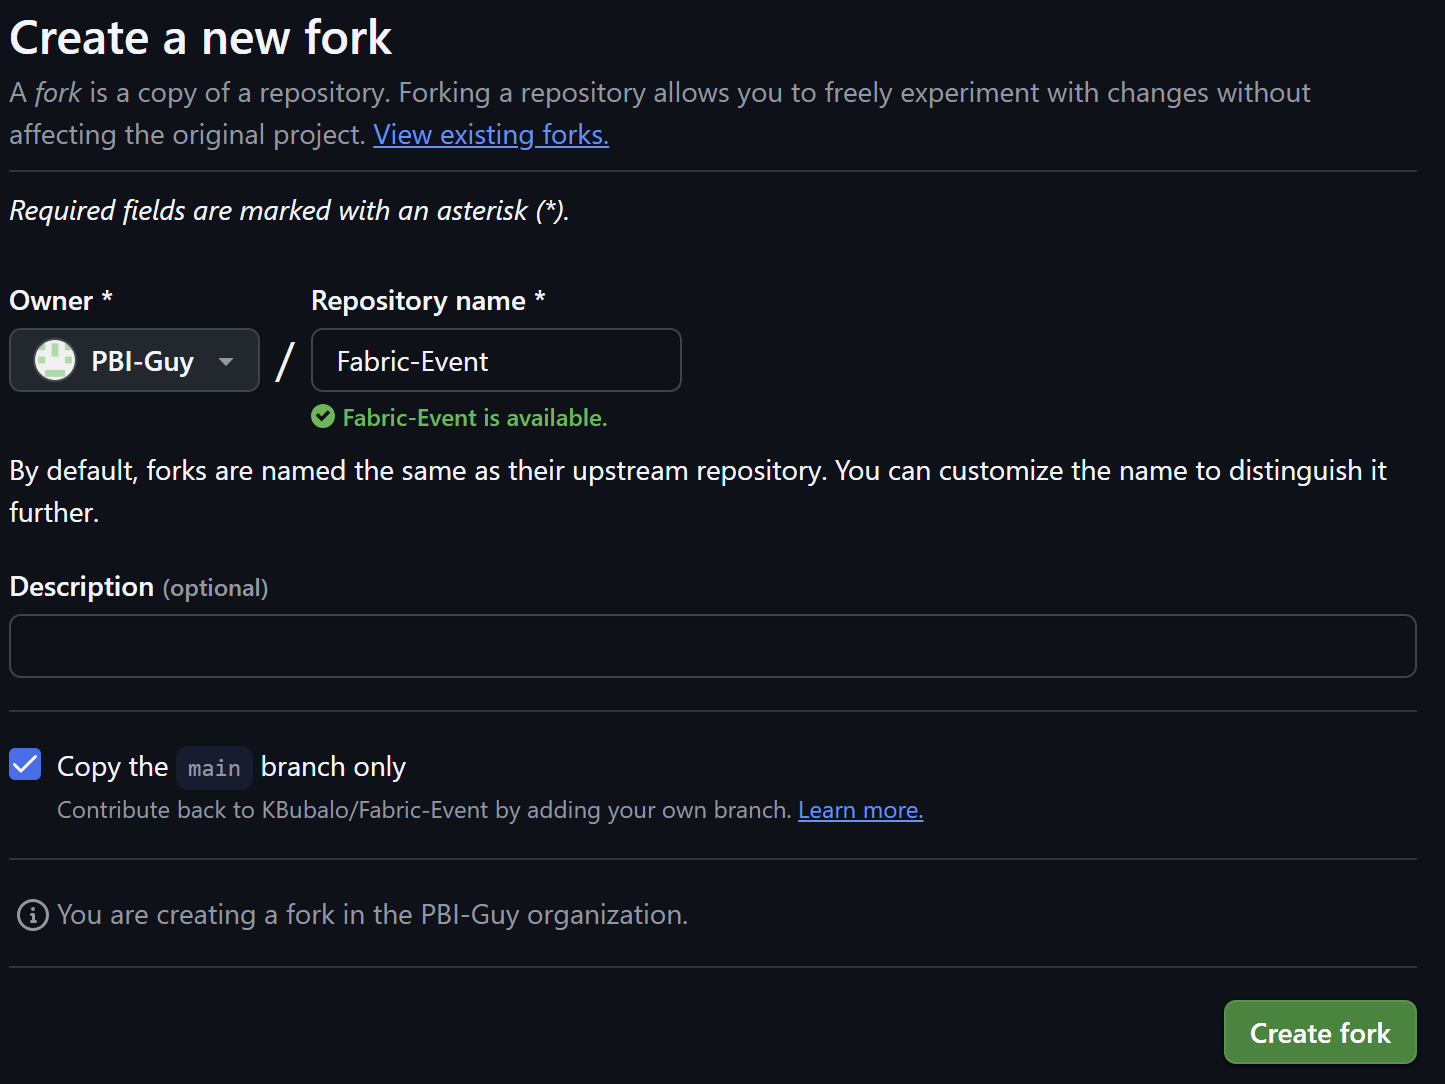
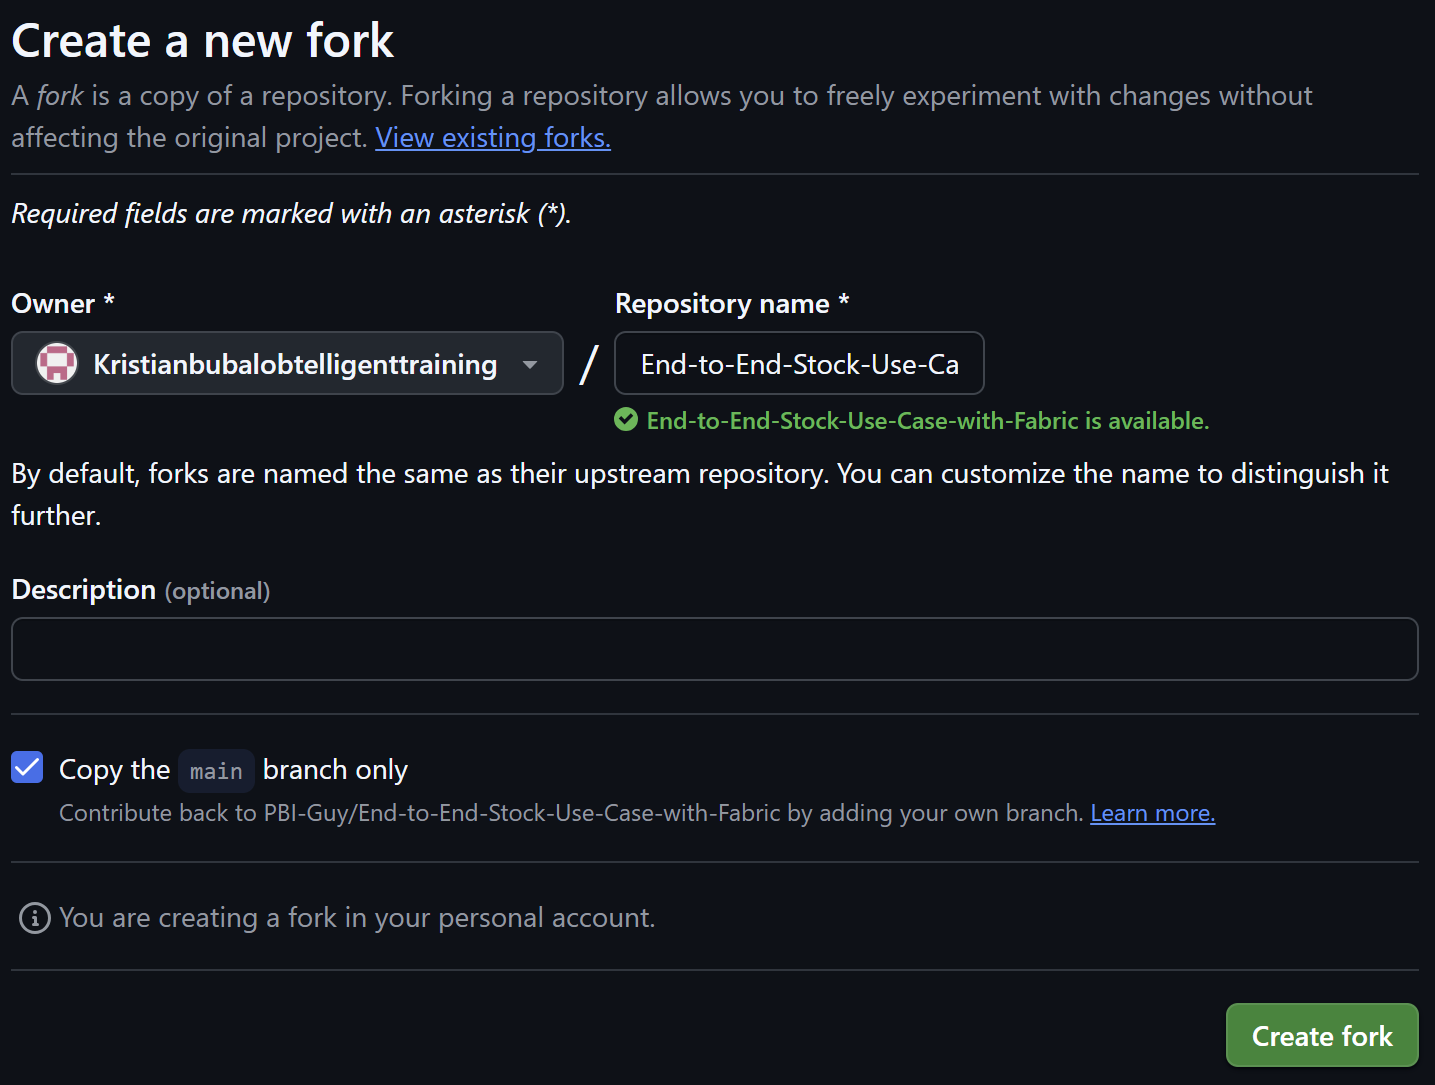
updated PNGs and URL for GitHub repo to point to the PBI Guy one.

diff --git a/README.md b/README.md
@@ -47,7 +47,7 @@ Next, verfiy your account with one option.
 
 
 ## Let's get started
-Once all prerequisites are met, you can log in to GitHub and access following [GitHub Repo.](https://github.com/KBubalo/Fabric-Event) From there, press the button to create a fork.
+Once all prerequisites are met, you can log in to GitHub and access following [GitHub Repo.](https://github.com/PBI-Guy/End-to-End-Stock-Use-Case-with-Fabric) From there, press the button to create a fork.
 
 <img src="./PNG/05%20Create%20a%20GitHub%20Fork.png" width="500">
 
@@ -68,6 +68,10 @@ Next, you need to provide a Token name, e.g. _Fabric Event_, and give access to 
 
 <img src="./PNG/09%20Token%20repo%20access.png" width="500">
 
+Make ksure to provide Read and Write permissions on Contents.
+
+<img src="./PNG/9.1%20Token%20permission.png" width="500">
+
 Once everything configured, press the **Generate token** button at the bottom of the page. A message will pop up summarizing the configuration. Confirm by pressing the **Generate token** button.
 
 
@@ -82,11 +86,11 @@ As a final step, we need to sync now the GitHub repo with our Workspace. Open Mi
 
 <img src="./PNG/12%20Workspace%20Git%20Integration%20Config.png" width="500">
 
-In the pop-up window, give a Display Name and past your GitHub Personal Access Token which we created before. Hit **Add**.
+In the pop-up window, give a Display Name and past your GitHub Personal Access Token which we created before. Also, provide the GitHub repo URL which has following structure: https://github.com/_YourGitHubUser_/End-to-End-Stock-Use-Case-with-Fabric, e.g. https://github.com/PBI-Guy/End-to-End-Stock-Use-Case-with-Fabric Hit **Add**.
 
 <img src="./PNG/13%20Add%20GitHub%20account.png" width="500">
 
-After the account has been successfully added, you can select **Connect**. Now, you have to provide your repo URL, select the main branch, and add **Fabric to the Git folder**. Lasty, click **Connect and sync**.
+After the account has been successfully added, you can select **Connect**. Now, you have to select the main branch, and add **Workspace Items to the Git folder**. Lasty, click **Connect and sync**.
 
 <img src="./PNG/14%20Configure%20Repo.png" width="500">
 
@@ -95,7 +99,7 @@ Now, all Fabric items from the GitHub repo will be synced into the workspace. Th
 
 
 
-[asdf](./PNG/14%20Configure%20Repo.png)
+[asdf](./PNG/9.1%20Token%20permission.png)
 
 
 
